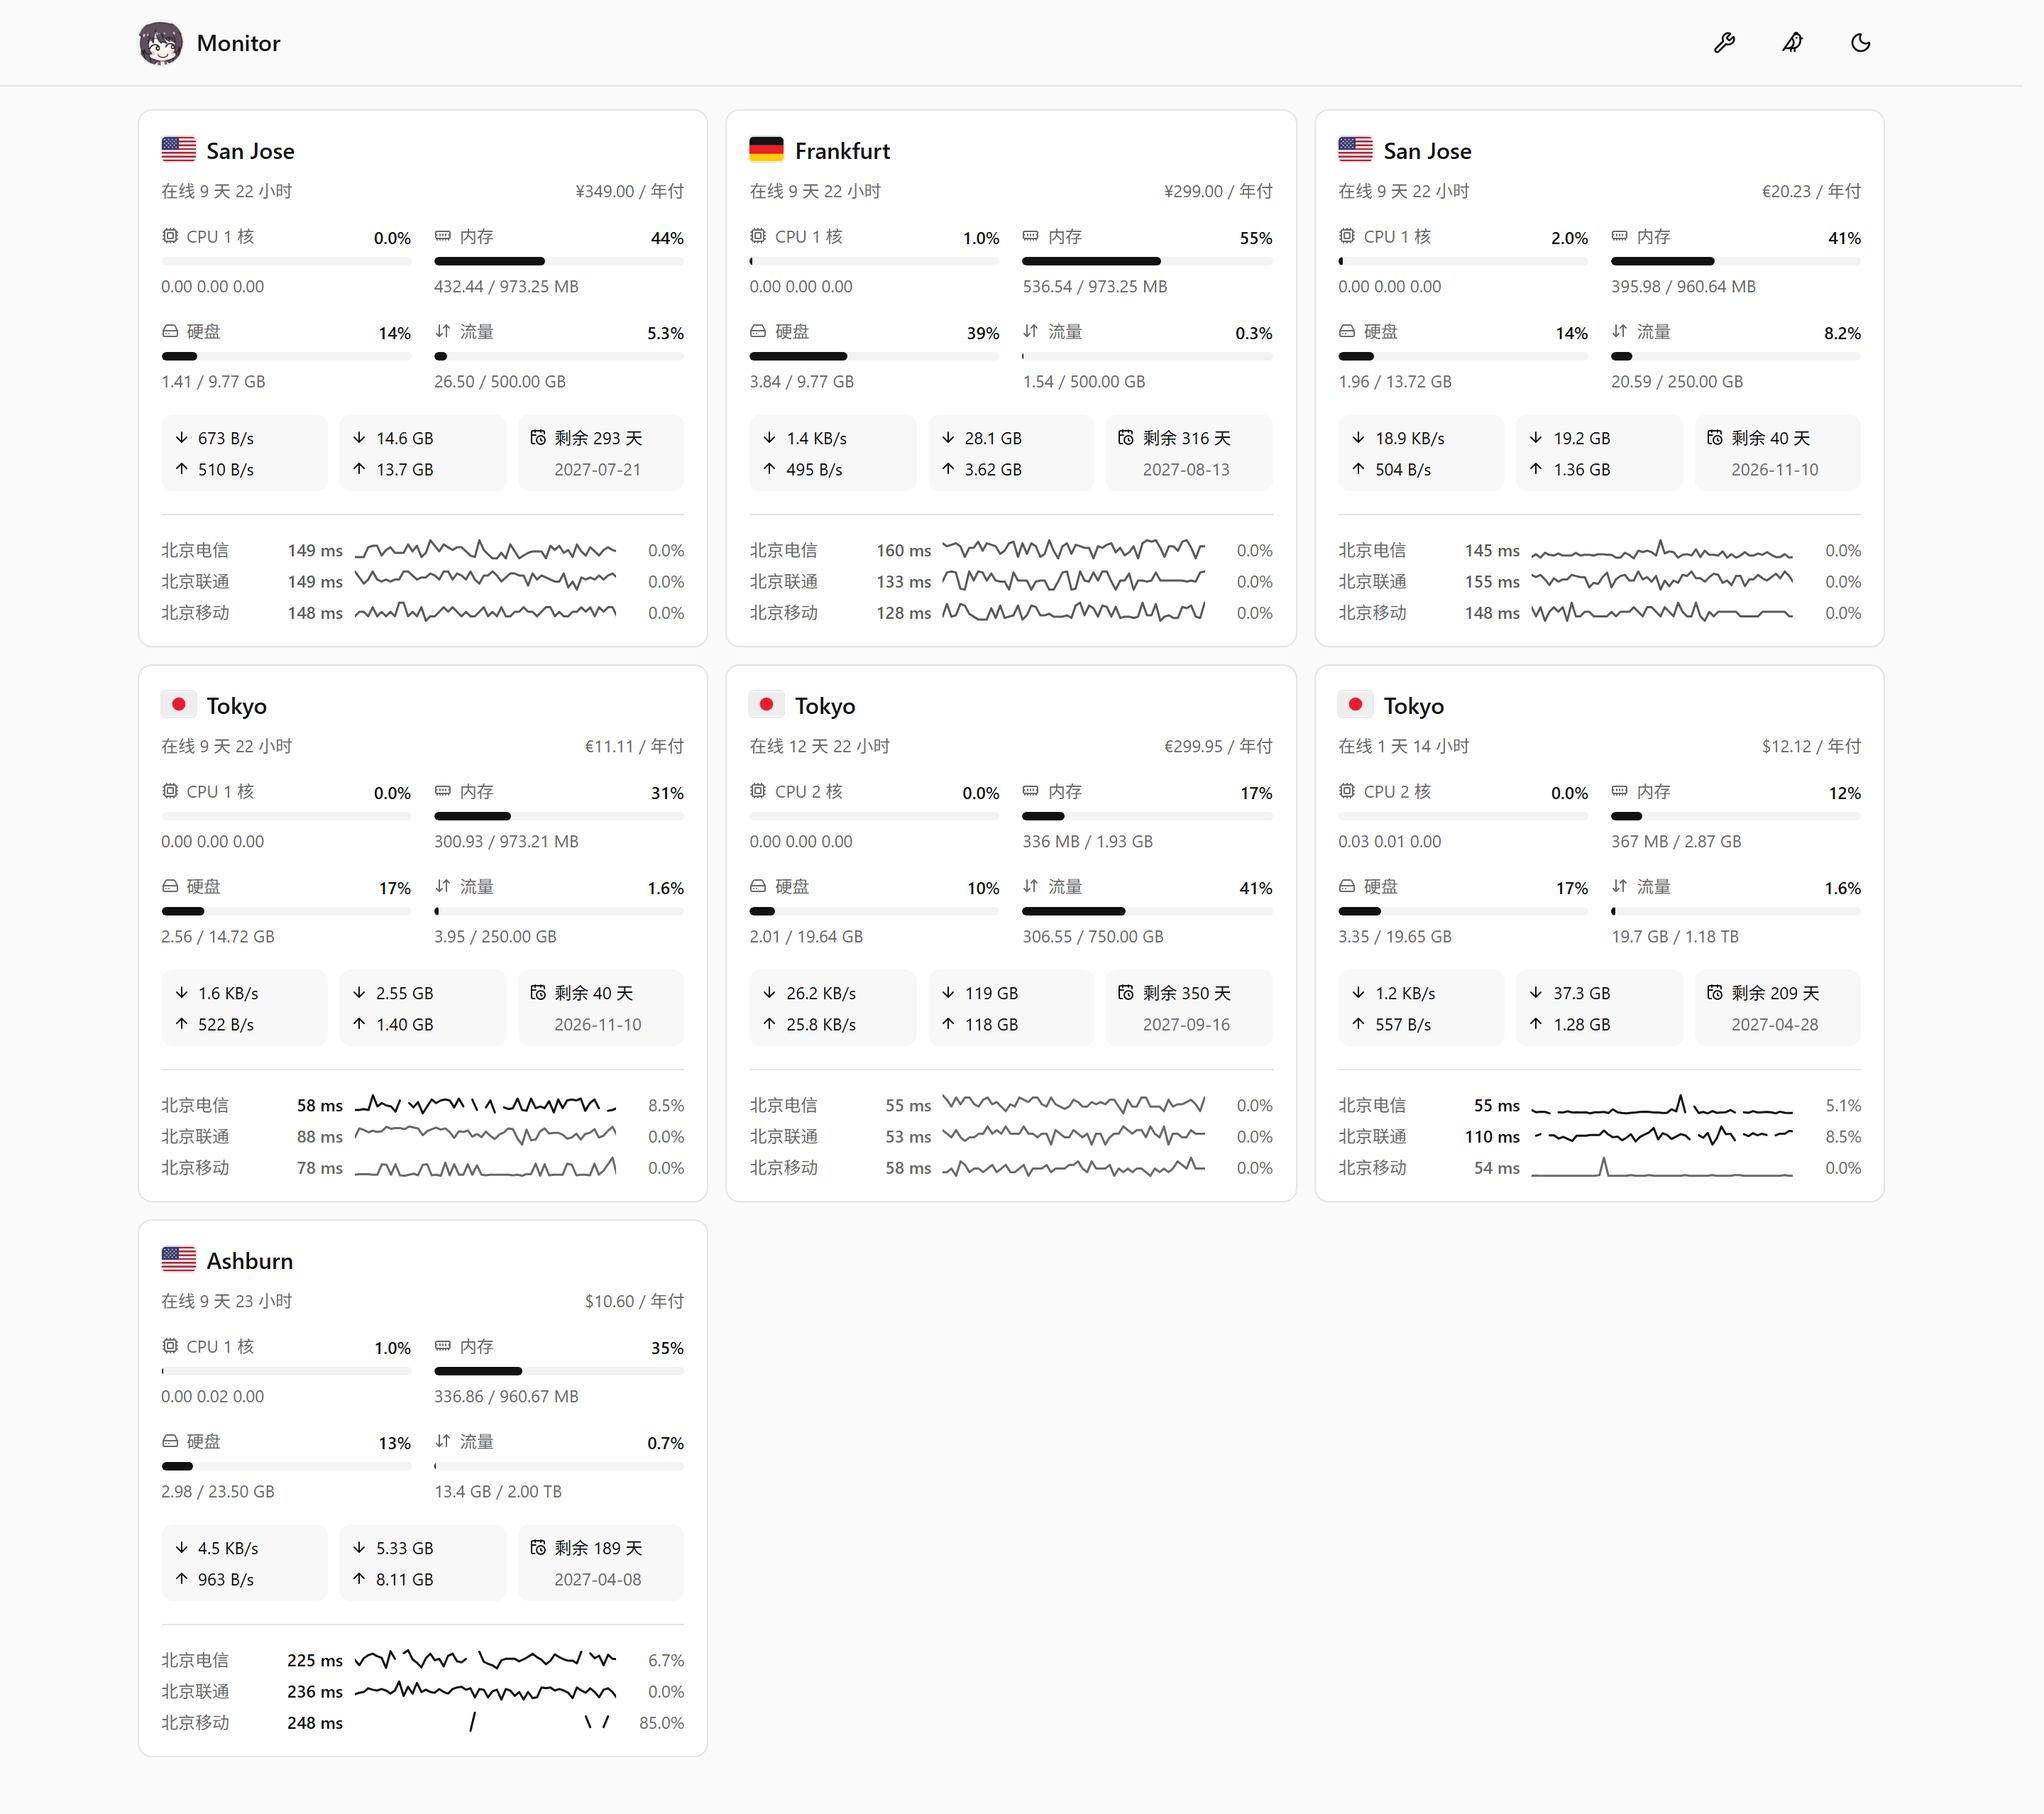
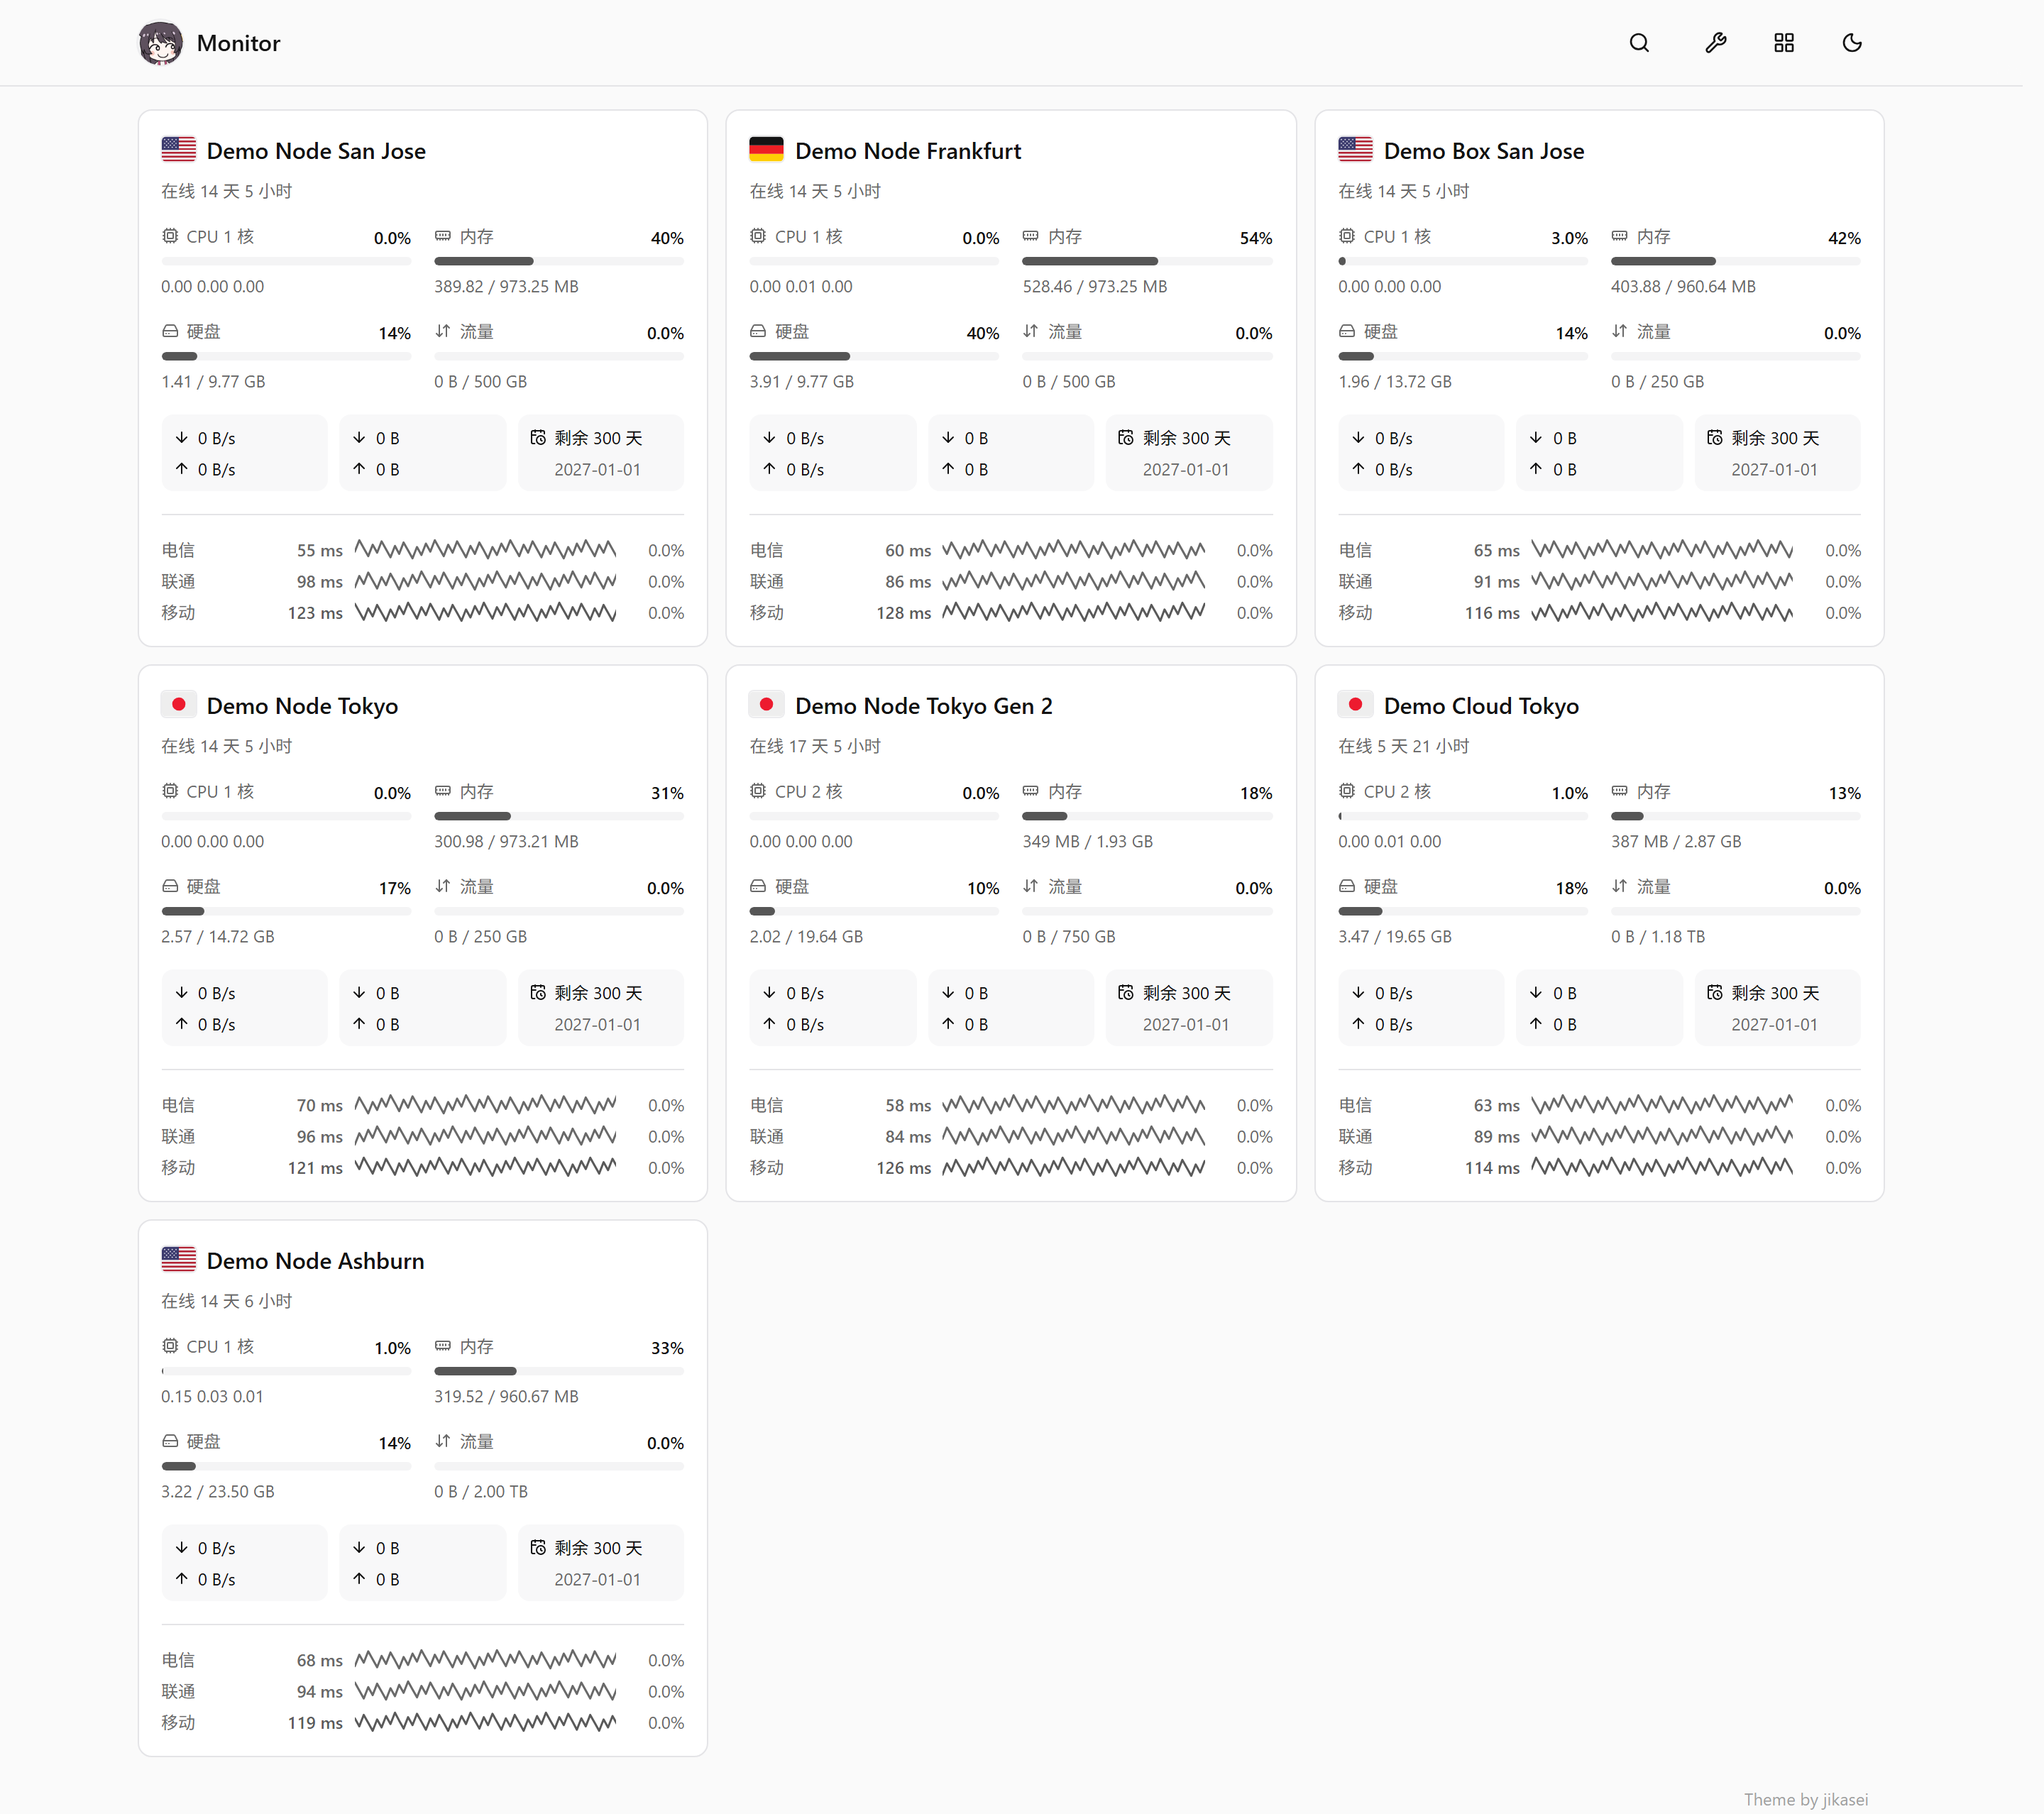
1.26.1：进度条填色定在 70%（亮 7.0:1 / 暗 6.7:1）；五张形态预览图与手机版按新构建重拍（同机位同尺寸），画廊拍摄工具落进仓库

diff --git a/README.md b/README.md
@@ -32,11 +32,11 @@
 
 | **简约形态** | **经典形态** |
 |:---:|:---:|
-| ![简约形态](preview-plain.png?v=3) | ![经典形态](preview-classic.png?v=4) |
+| ![简约形态](preview-plain.png?v=4) | ![经典形态](preview-classic.png?v=5) |
 | **延迟形态** | **详细形态（默认）** |
-| ![延迟形态](preview-latency.png?v=4) | ![详细形态](preview-detailed.png?v=3) |
+| ![延迟形态](preview-latency.png?v=5) | ![详细形态](preview-detailed.png?v=4) |
 | **紧凑形态** | |
-| ![紧凑形态](preview-compact.png?v=3) | |
+| ![紧凑形态](preview-compact.png?v=4) | |
 
 ## 访客自己换卡片形态
 
